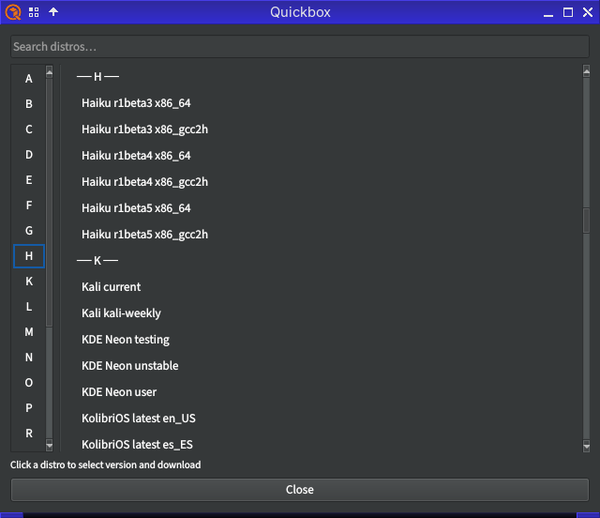
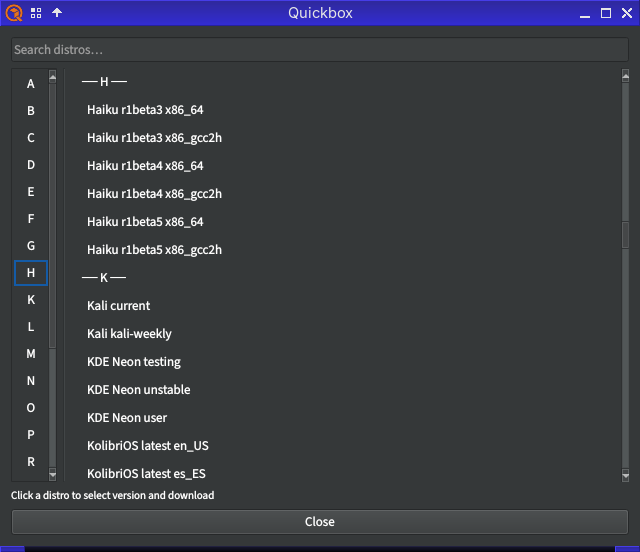
docs: use letterboxed thumbnails for the screenshot gallery
Restore the full-resolution screenshots and generate separate
250x300 letterboxed thumbnails for the README wall instead of
downscaling the originals in place, so the gallery stays uniform
without stretching or losing detail on click-through.

diff --git a/README.md b/README.md
@@ -19,29 +19,29 @@ Ported from the original [quickbox](https://github.com/musqz/quickbox) GTK versi
 <table align="center">
   <tr>
     <td align="center">
-      <a href="docs/screenshots/main.png"><img src="docs/screenshots/main.png" height="190" alt="Main window"/></a><br/>
+      <a href="docs/screenshots/main.png"><img src="docs/screenshots/thumbs/main.png" width="250" height="300" alt="Main window"/></a><br/>
       <sub>Main window</sub>
     </td>
     <td align="center">
-      <a href="docs/screenshots/settings.png"><img src="docs/screenshots/settings.png" height="190" alt="VM settings"/></a><br/>
+      <a href="docs/screenshots/settings.png"><img src="docs/screenshots/thumbs/settings.png" width="250" height="300" alt="VM settings"/></a><br/>
       <sub>VM settings</sub>
     </td>
     <td align="center">
-      <a href="docs/screenshots/download.png"><img src="docs/screenshots/download.png" height="190" alt="Download distros"/></a><br/>
+      <a href="docs/screenshots/download.png"><img src="docs/screenshots/thumbs/download.png" width="250" height="300" alt="Download distros"/></a><br/>
       <sub>Download distros</sub>
     </td>
   </tr>
   <tr>
     <td align="center">
-      <a href="docs/screenshots/advanced.png"><img src="docs/screenshots/advanced.png" height="190" alt="Locations & profiles"/></a><br/>
+      <a href="docs/screenshots/advanced.png"><img src="docs/screenshots/thumbs/advanced.png" width="250" height="300" alt="Locations & profiles"/></a><br/>
       <sub>Locations &amp; profiles</sub>
     </td>
     <td align="center">
-      <a href="docs/screenshots/migrate.png"><img src="docs/screenshots/migrate.png" height="190" alt="Migrate VMs"/></a><br/>
+      <a href="docs/screenshots/migrate.png"><img src="docs/screenshots/thumbs/migrate.png" width="250" height="300" alt="Migrate VMs"/></a><br/>
       <sub>Migrate VMs</sub>
     </td>
     <td align="center">
-      <a href="docs/screenshots/about.png"><img src="docs/screenshots/about.png" height="190" alt="About"/></a><br/>
+      <a href="docs/screenshots/about.png"><img src="docs/screenshots/thumbs/about.png" width="250" height="300" alt="About"/></a><br/>
       <sub>About</sub>
     </td>
   </tr>
